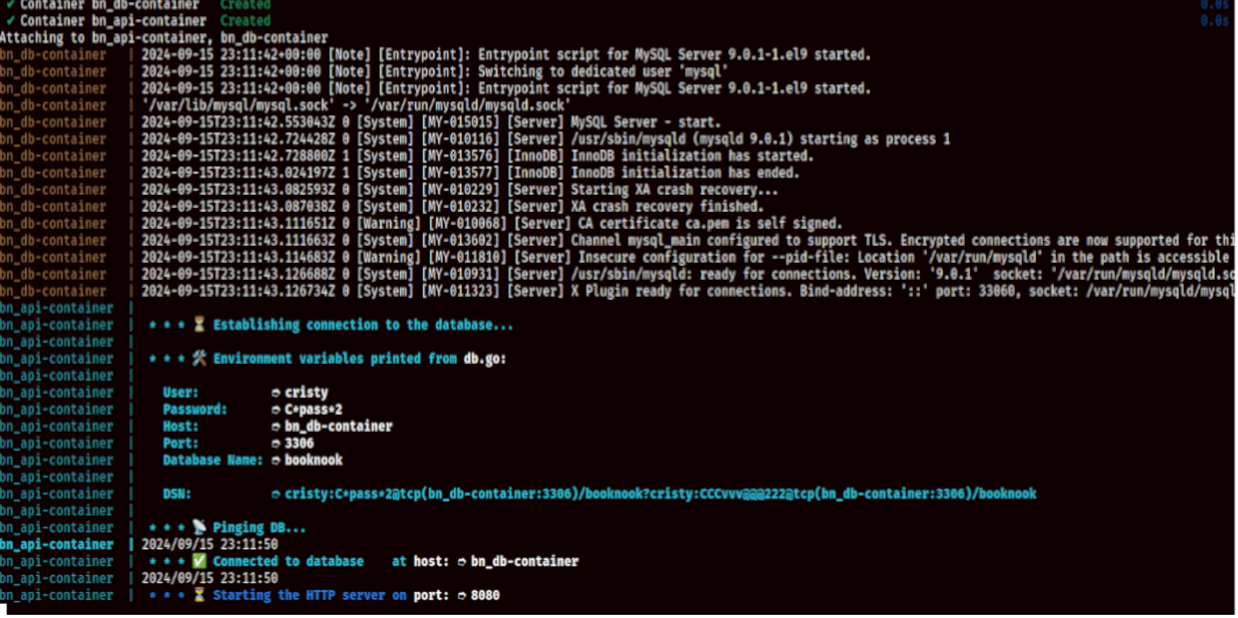
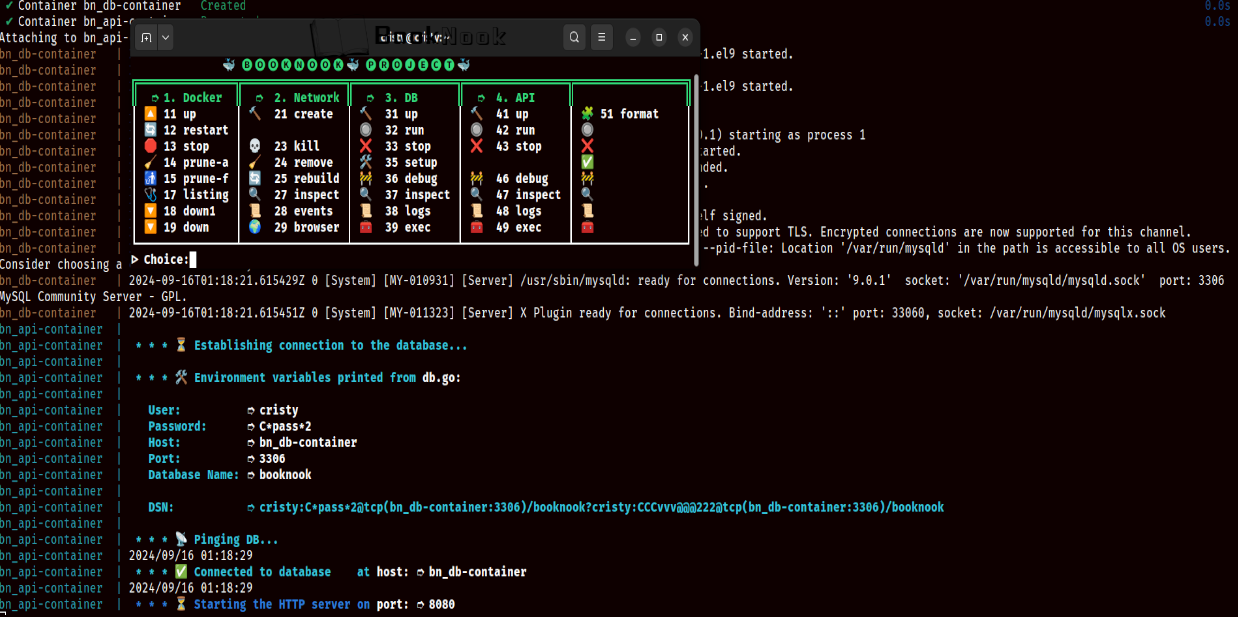
Move files to restructure

diff --git a/api/internal/database/db.go b/api/internal/database/db.go
@@ -61,7 +61,7 @@ func InitDB() {
 	}
 
 	// ping the database
-	fmt.Println("\033[1;96;1m * * * 📡 Pinging DB...")
+	fmt.Println("\033[1;96;1m * * * 📡 Pinging DB...\033[0m")
 	err = DB.Ping()
 	if err != nil {
 		fmt.Printf("\033[91m	* Error pinging database: %v\033[0m\n", err)

diff --git a/README.md b/README.md
@@ -2,8 +2,9 @@
 ---
 
 ![browser](./api/static/img/http_js_css.png)
-                                                                                                                        # BookNook - Book Review Platform
+![terminal](./api/static/img/api_docker.png)
 
+# BookNook - Book Review Platform
 
 Welcome to **BookNook**, a simple web application that allows users to browse, add, rate, and review books. This platform provides an easy way for users to discover new books, share their thoughts, and see what others have to say.
 
